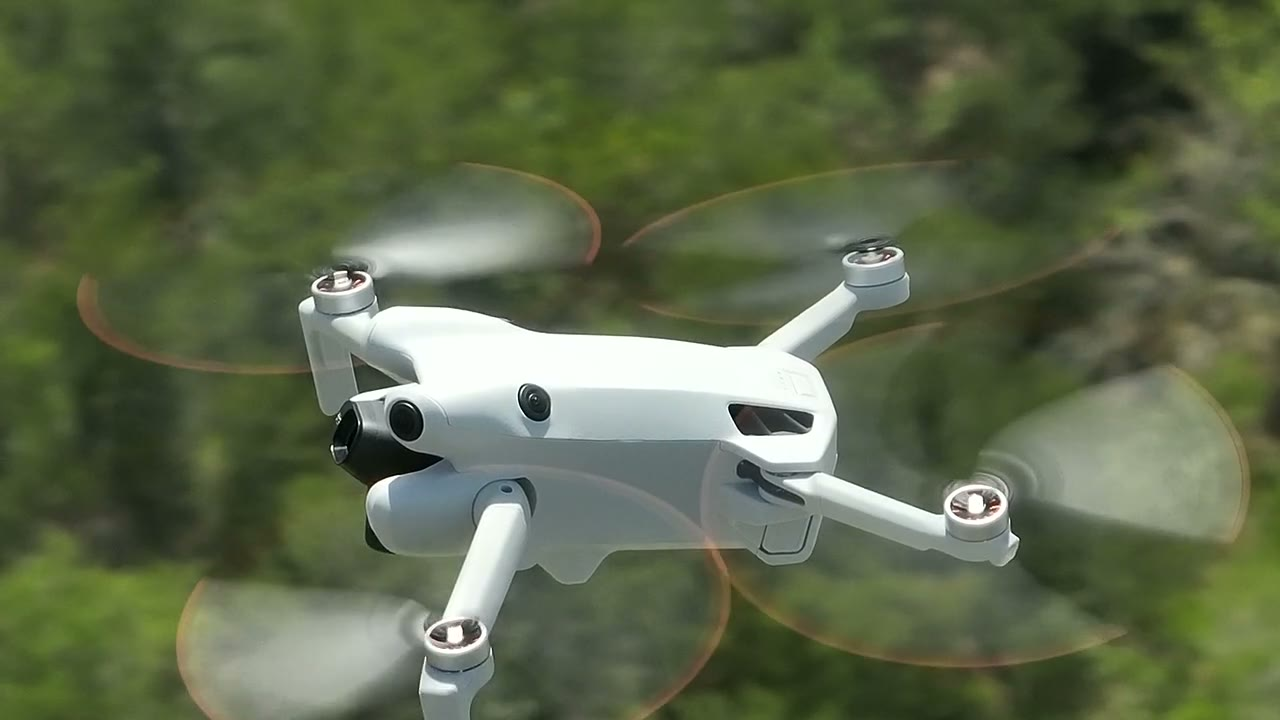
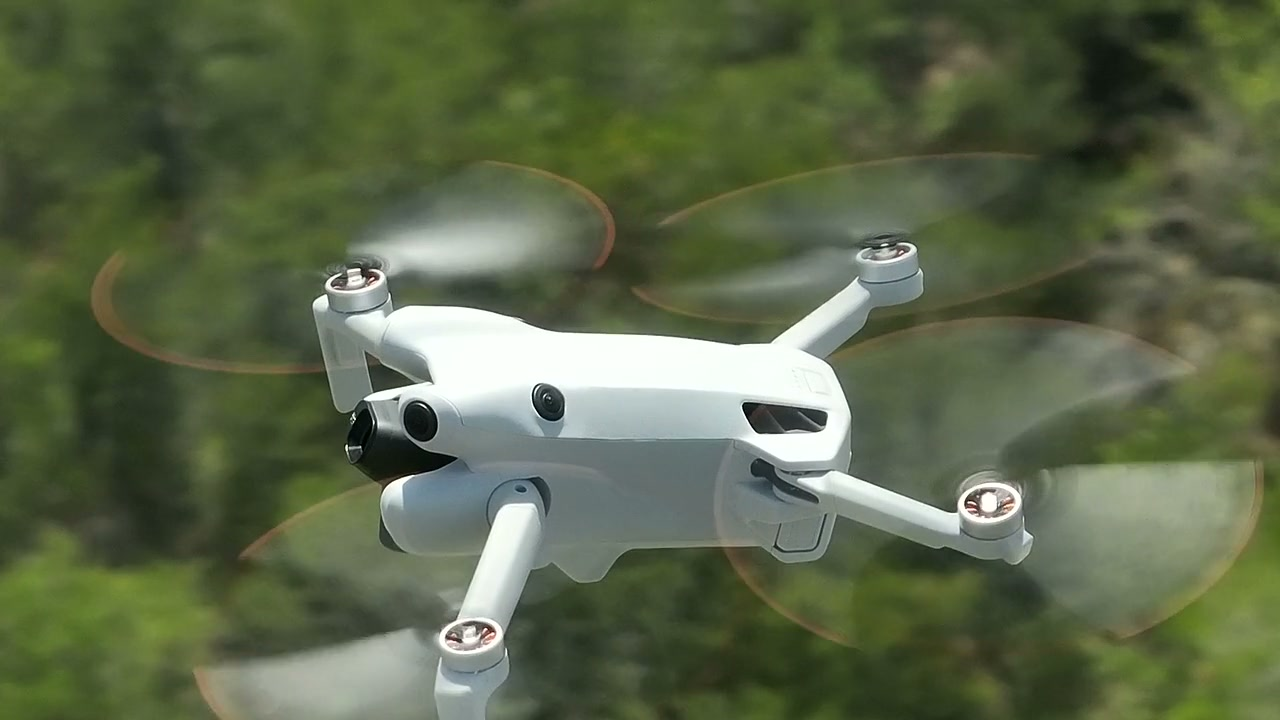
Photos card is a sharp still, not a loop.
Same still on the photos page with visual/thermal pair.

diff --git a/photos.html b/photos.html
@@ -23,17 +23,24 @@
     </div>
   </header>
   <section class="page-hero wrap">
-    <p class="eyebrow">Services</p>
+    <p class="eyebrow">Hire Air Assets</p>
     <h1>Photos and video</h1>
     <p class="lede">Stills, video, and thermal from the aircraft. Pair Fusion Sensor if you also want the radio picture.</p>
-    <video class="loop" autoplay muted loop playsinline poster="assets/still-close-mini.jpg" width="1280" height="720">
-      <source src="assets/mini-close.mp4?v=9" type="video/mp4" />
-    </video>
+    <img src="assets/still-close-mini.jpg?v=2" alt="Air asset in flight." width="1280" height="720" />
   </section>
   <section class="work">
     <div class="wrap">
-      <p>Visual and thermal from the aircraft.</p>
-      <p>Used for events, VIP, search, roofs, construction, and site surveys. Pair it with CyberRaptor for the radio picture.</p>
+      <div class="pair">
+        <figure>
+          <figcaption>Visual</figcaption>
+          <img src="assets/still-er.jpg" alt="Overhead visual of an emergency scene." width="1920" height="1080" loading="lazy" />
+        </figure>
+        <figure>
+          <figcaption>Thermal</figcaption>
+          <img src="assets/still-er-thermal.jpg" alt="Same window in thermal." width="1920" height="1080" loading="lazy" />
+        </figure>
+      </div>
+      <p>Visual and thermal from the same window. Used for events, VIP, search, roofs, construction, and site surveys.</p>
       <p class="plans-cta"><a class="cta" href="index.html#request">Request this job</a></p>
     </div>
   </section>

diff --git a/index.html b/index.html
@@ -92,11 +92,9 @@
           <p>Quiet overhead for a private movement. The file goes to the person in charge.</p>
         </a>
         <a class="card" href="photos.html">
-          <video class="loop" autoplay muted loop playsinline poster="assets/still-close-mini.jpg" width="1280" height="720" aria-hidden="true">
-            <source src="assets/mini-close.mp4?v=9" type="video/mp4" />
-          </video>
+          <img src="assets/still-close-mini.jpg?v=2" alt="Air asset in flight." width="1280" height="720" loading="lazy" />
           <h3>Photos and video</h3>
-          <p>Stills, video, and thermal from the aircraft.</p>
+          <p>Stills, video, and thermal from the same window.</p>
         </a>
         <a class="card" href="sar.html">
           <video class="loop" autoplay muted loop playsinline poster="assets/still-sar.jpg" width="1600" height="1066" aria-hidden="true">
